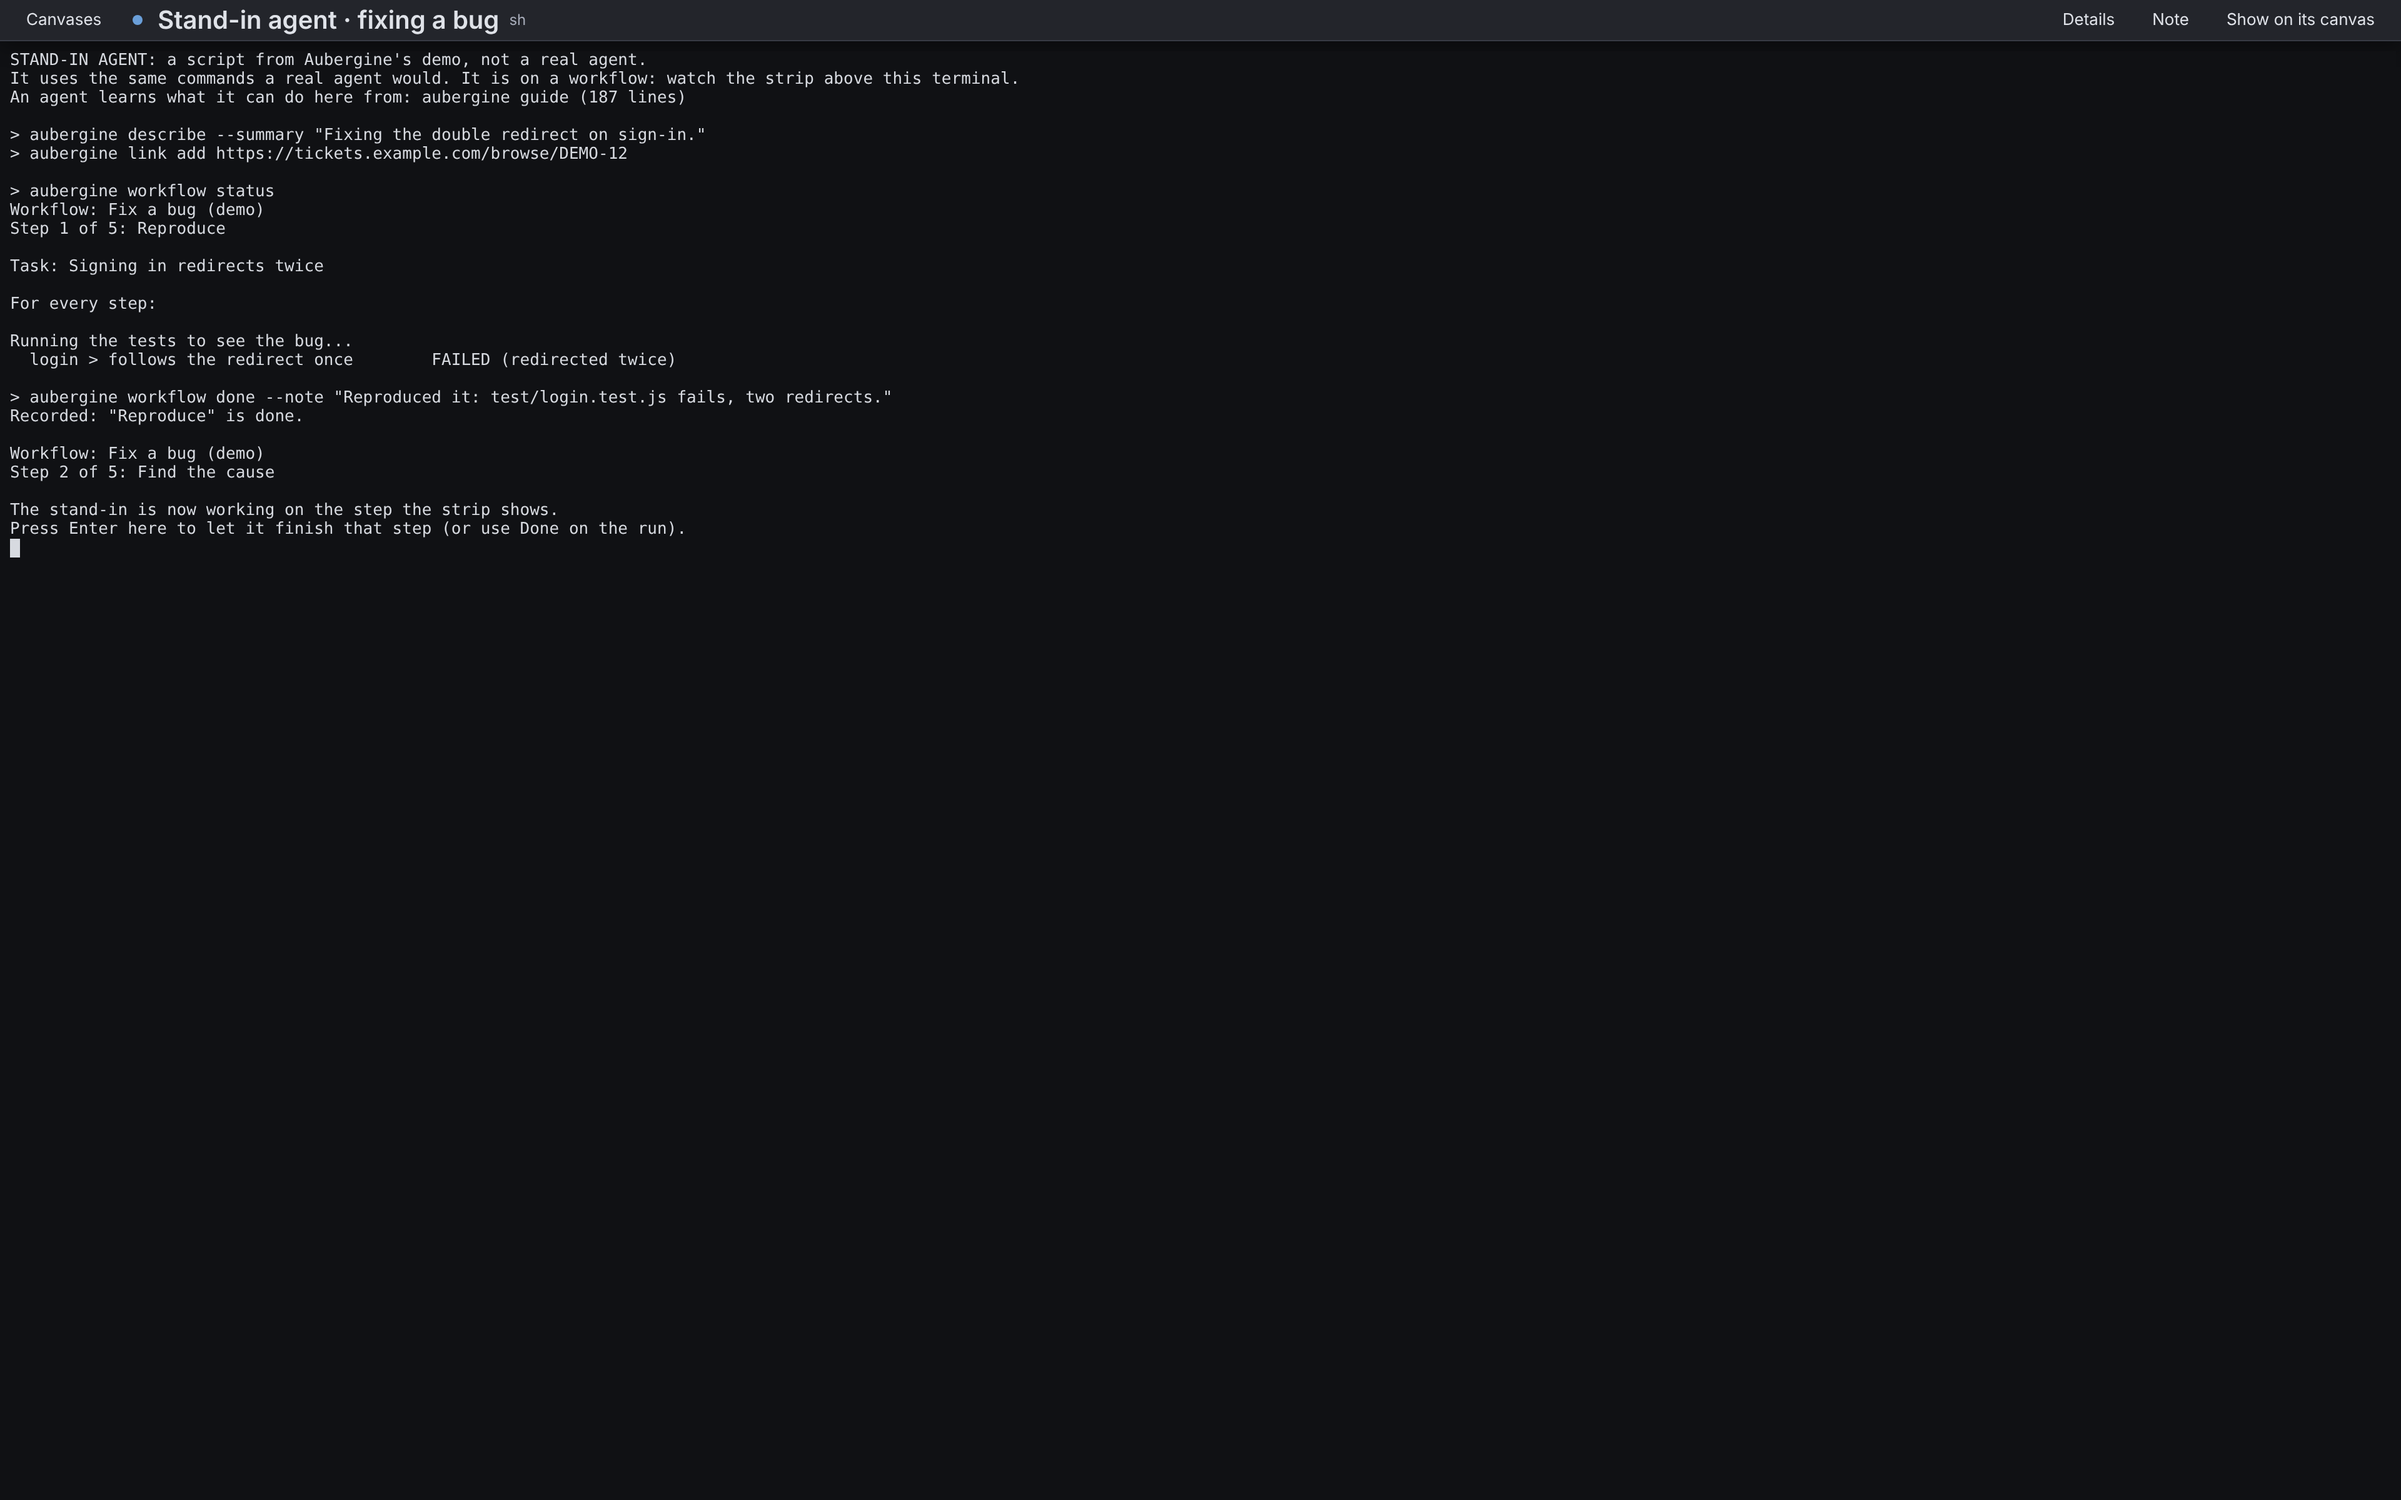
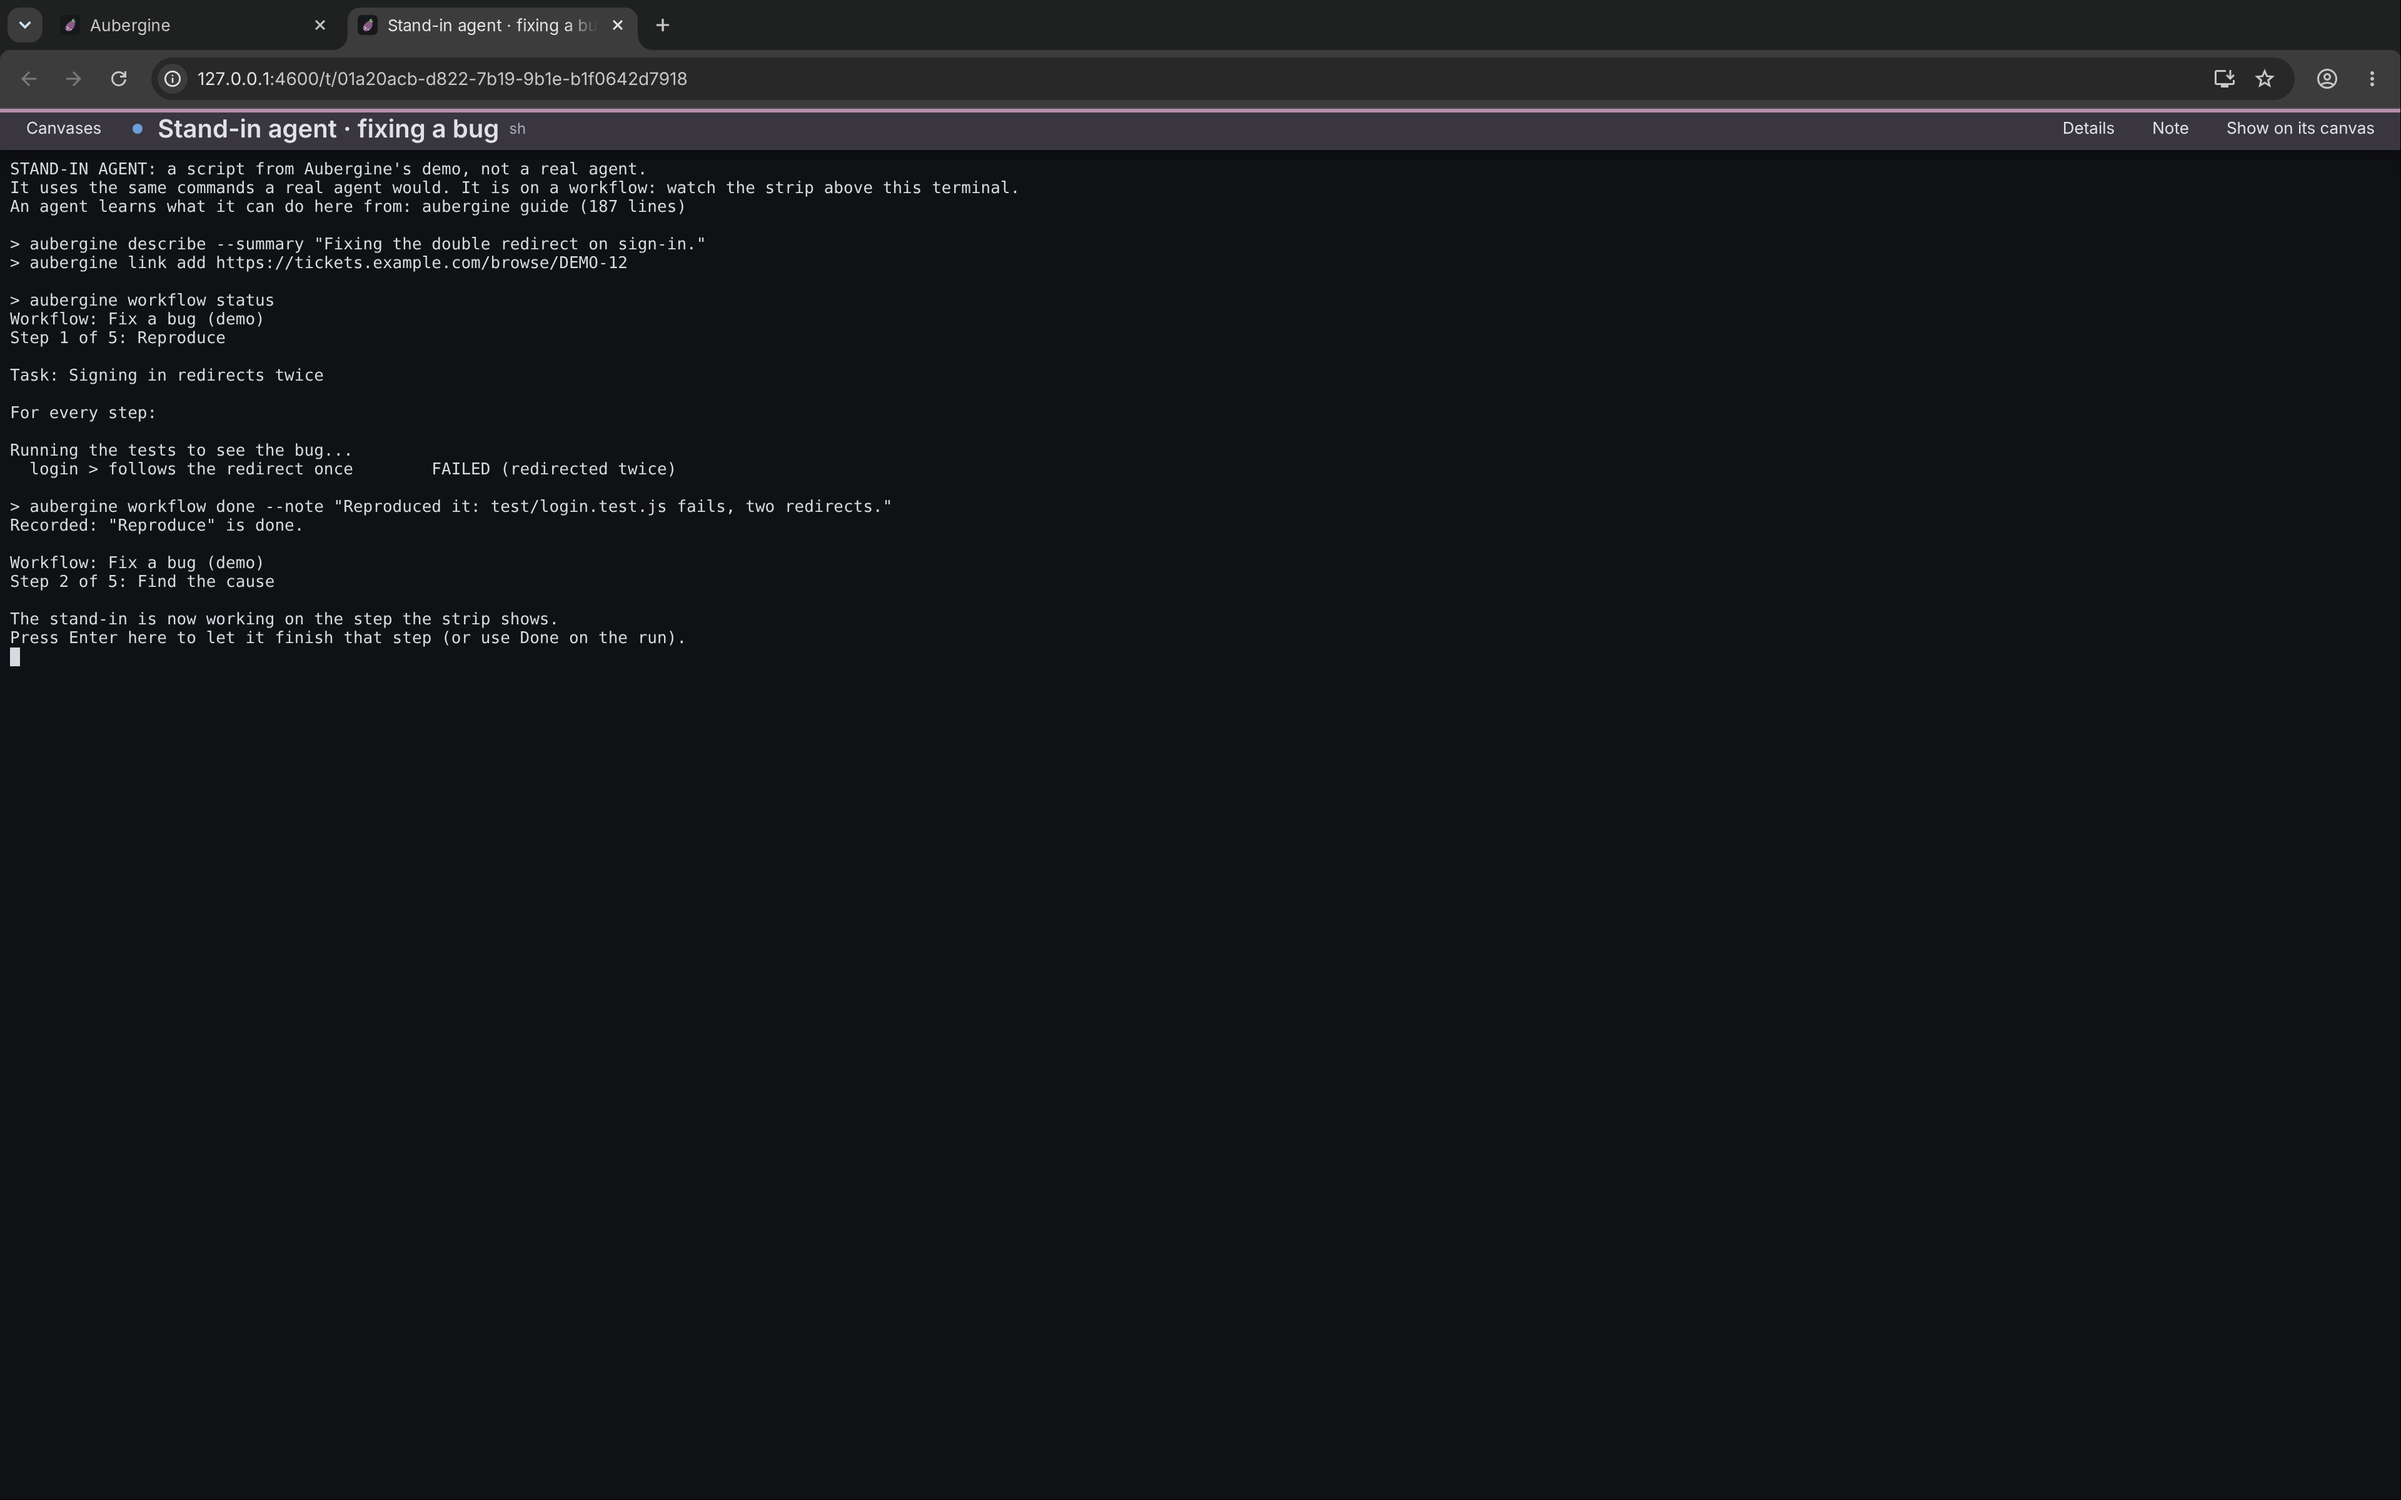
The pictures of the focus view show it in a browser tab of its own, its head in the terminal's color
Claude-Session: https://claude.ai/code/session_011jV7PaBDCNMfJDETAJCyU3

Changed region(s): [[0.0, 0.0, 1.0, 0.4375]]

diff --git a/site/index.html b/site/index.html
@@ -234,8 +234,8 @@
         <figcaption>Canvases on the left, every terminal in the list with what it is doing, and the terminals themselves, live, each in a color of its own if you like. The one with a question waits for you.</figcaption>
       </figure>
       <figure class="shot">
-        <img src="screenshots/focus.png" width="3840" height="2400" loading="lazy" alt="One terminal by itself in a browser tab with all three columns open: the canvases of its project at the left, its details with where it runs, its workflow step and its links, the live terminal, and its note with a summary and a log at the right.">
-        <figcaption>One terminal by itself in a browser tab. The canvases of its project, its details and its note open beside it when you ask, and each closes again with its button.</figcaption>
+        <img src="screenshots/focus.png" width="3840" height="2400" loading="lazy" alt="A browser window with two tabs, the canvas and one terminal by itself, whose address ends in /t/ and the terminal's ID. Its head is tinted in the terminal's purple, and all three columns are open: the canvases of its project at the left, its details with where it runs, its workflow step and its links, the live terminal, and its note with a summary and a log at the right.">
+        <figcaption>One terminal by itself in a browser tab of its own, beside the canvas's tab, its head in the terminal's color. The canvases of its project, its details and its note open beside it when you ask, and each closes again with its button.</figcaption>
       </figure>
     </section>
 

diff --git a/README.md b/README.md
@@ -785,8 +785,8 @@ A terminal that is running on a canvas can also be open by itself in a browser t
 
 | | |
 |---|---|
-| ![The focus view with nothing open beside it: the terminal's name and three buttons in the head, the live terminal filling the window](site/screenshots/focus-closed.png) | ![The focus view with all three columns open: the canvases of its project at the left, its details, the live terminal, its note at the right](site/screenshots/focus.png) |
-| **Just the terminal.** Nothing beside it until you ask. | **Everything open.** Canvases, Details and Note, each opened by its button in the head. |
+| ![The focus view in a browser tab of its own, beside the canvas's tab, its address ending in /t/ and the terminal's ID: the head tinted in the terminal's purple with its name and the buttons, the live terminal filling the rest of the window](site/screenshots/focus-closed.png) | ![The same browser tab with all three columns open: the canvases of its project at the left, its details, the live terminal, its note at the right, under the head in the terminal's purple](site/screenshots/focus.png) |
+| **Just the terminal, in a tab of its own.** Nothing beside it until you ask; the head has the terminal's color. | **Everything open.** Canvases, Details and Note, each opened by its button in the head. |
 
 Each column closes again with the same button in the head; Details and Note also close with the × in their own head.
 
